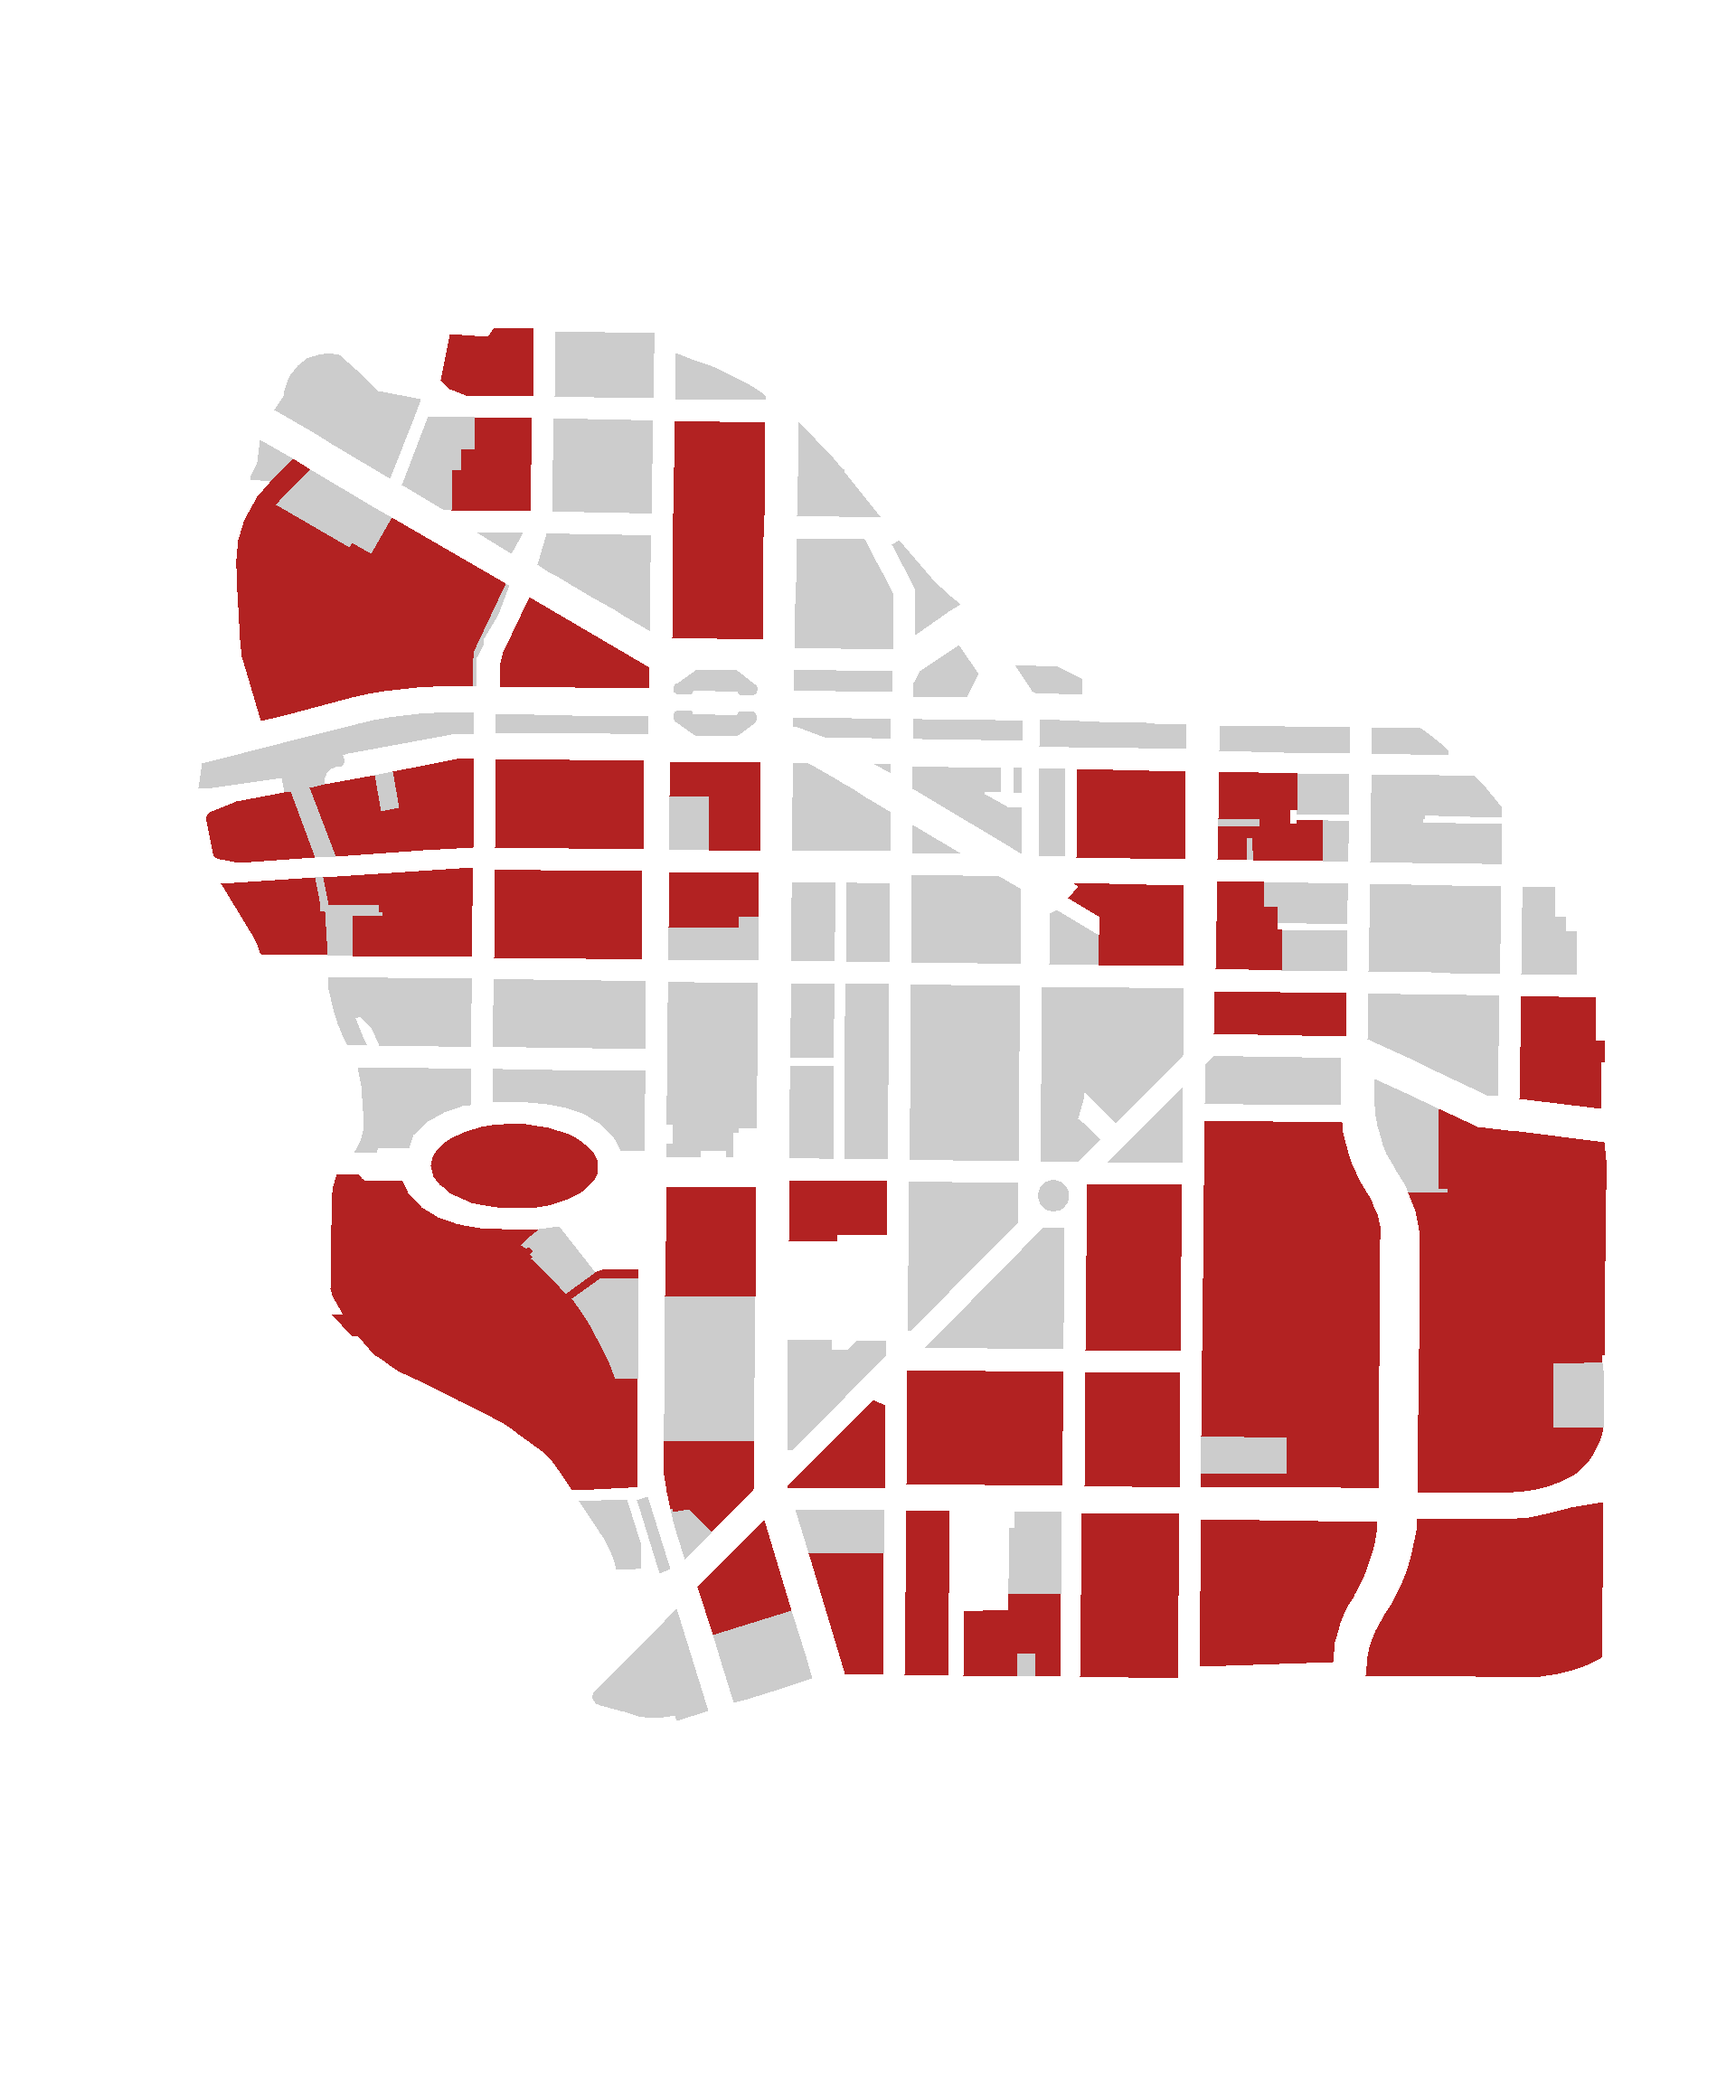
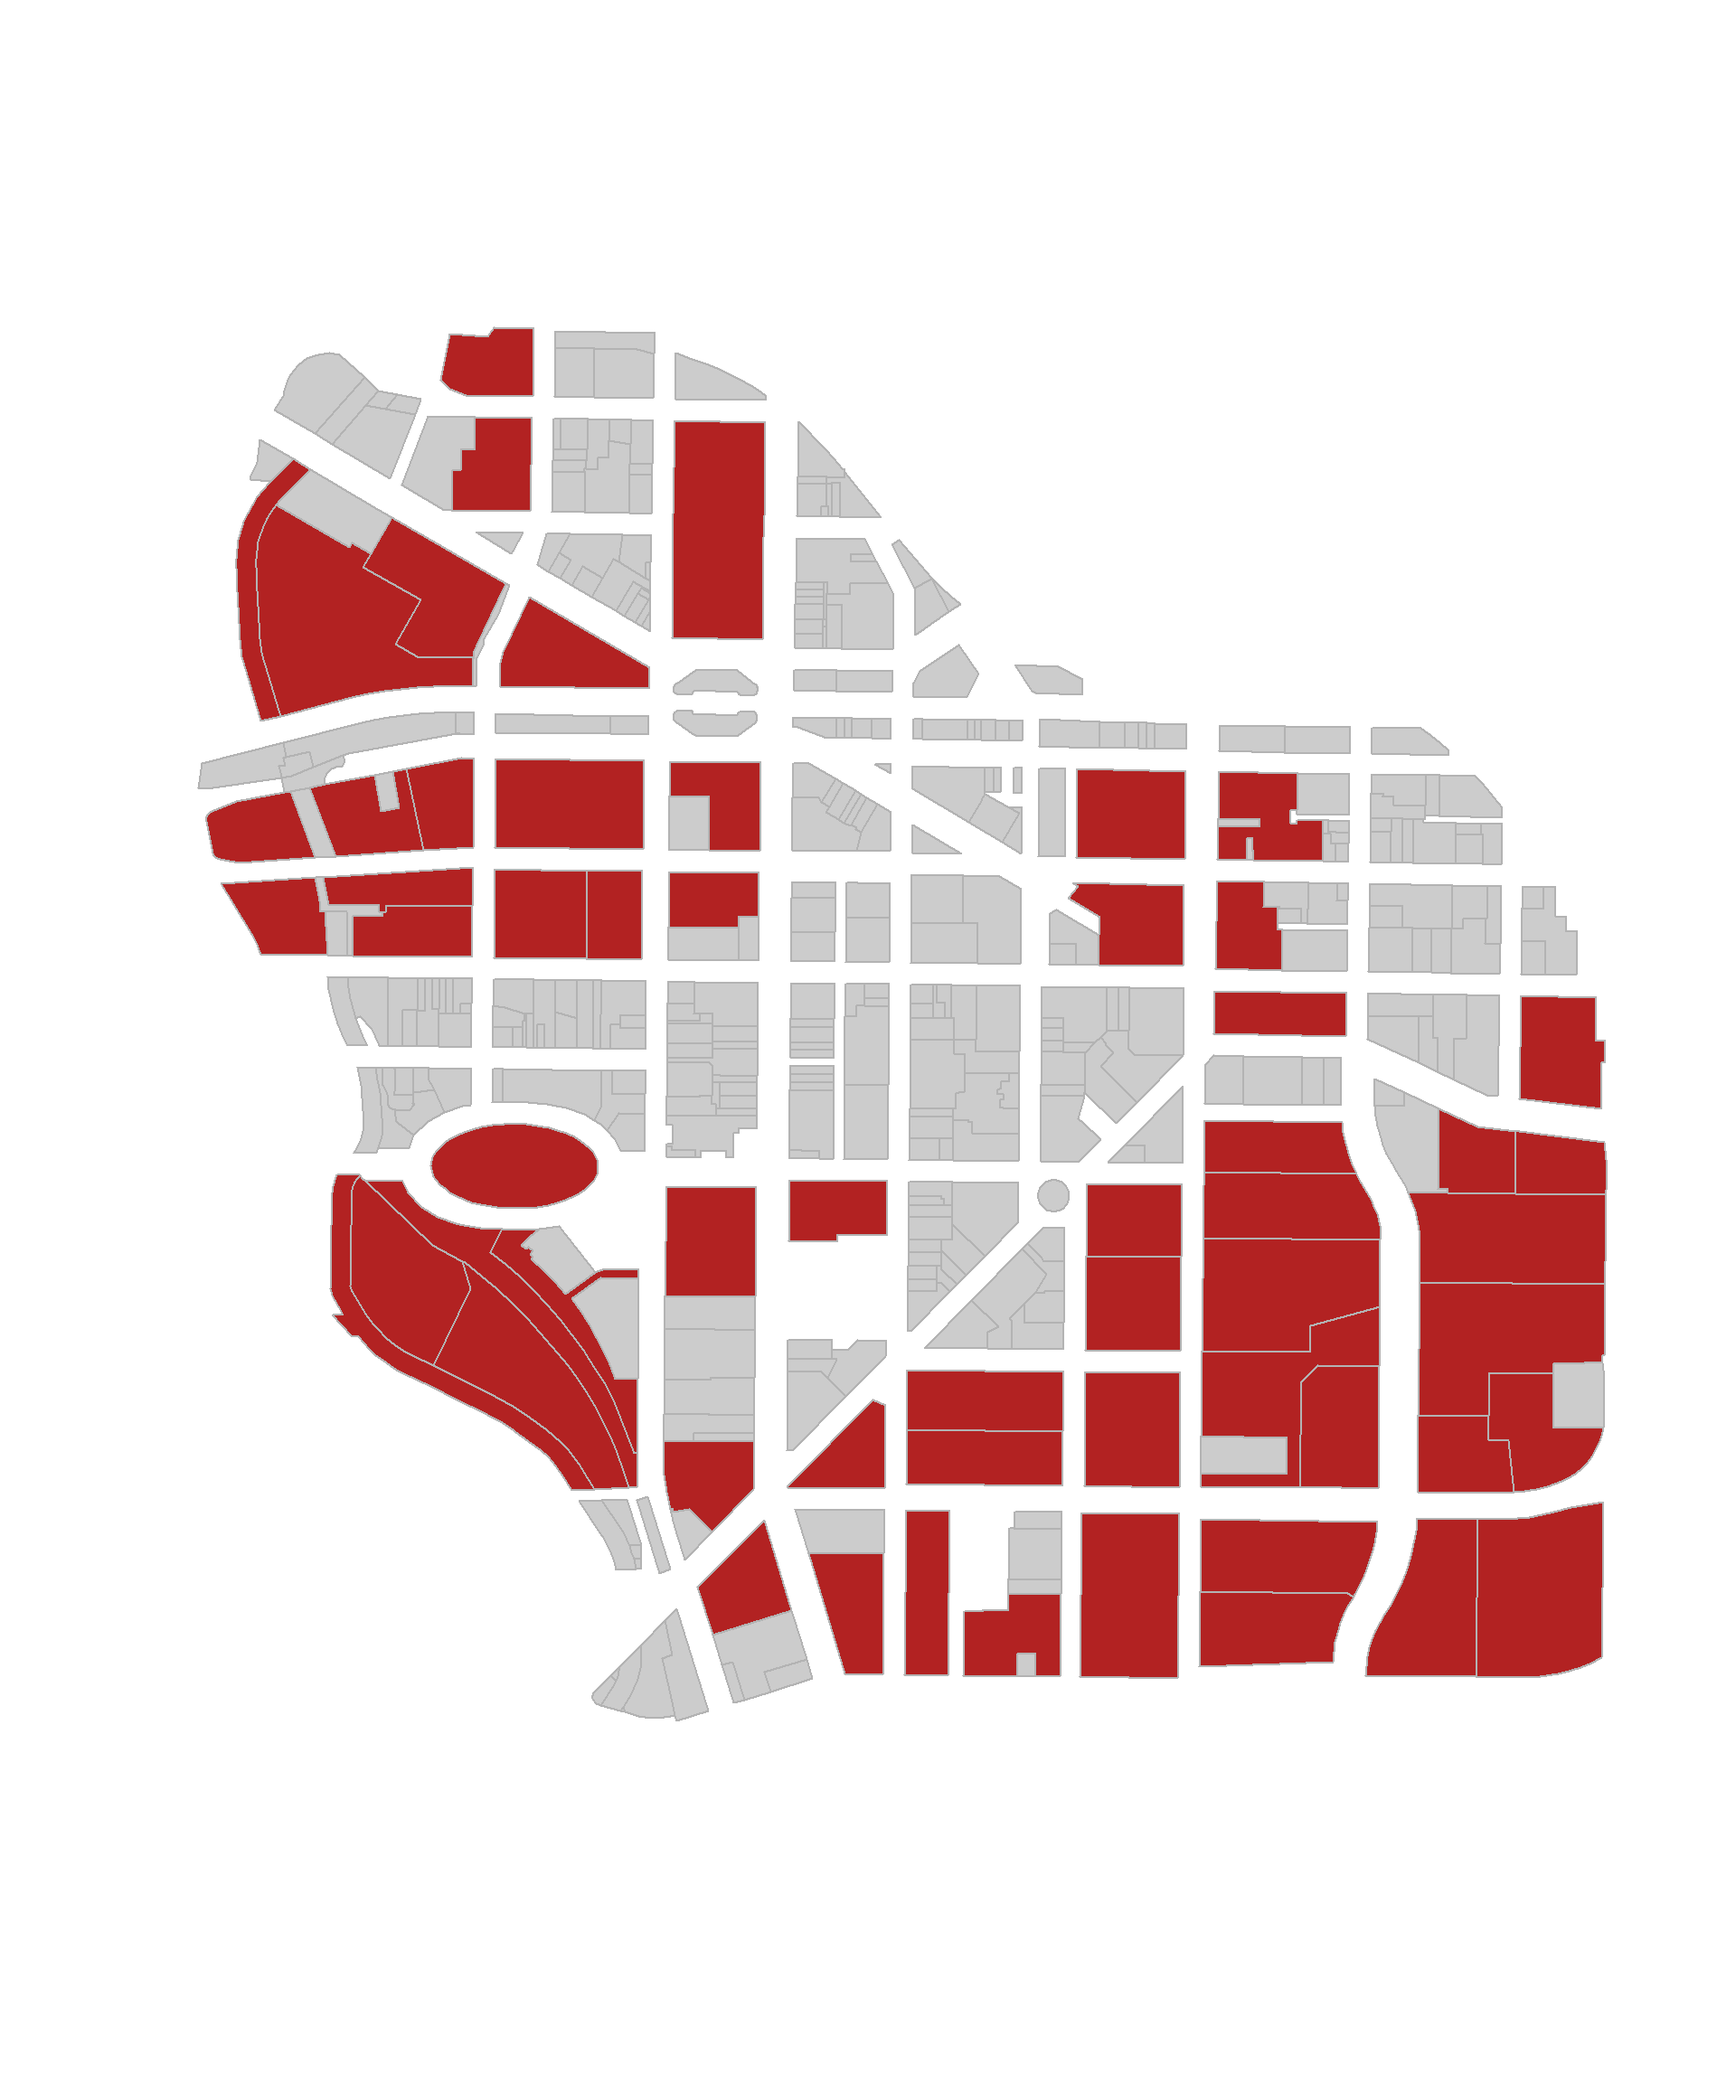
lab2

diff --git a/labs/lab-02-instructions-v2.html b/labs/lab-02-instructions-v2.html
@@ -844,7 +844,7 @@ summary {
 <p>Load the map file:</p>
 <div class="sourceCode" id="cb6"><pre class="sourceCode r"><code class="sourceCode r"><a class="sourceLine" id="cb6-1" title="1">URL &lt;-<span class="st"> &quot;https://raw.githubusercontent.com/DS4PS/Data-Science-Class/master/DATA/downtown-syr.geojson&quot;</span></a>
 <a class="sourceLine" id="cb6-2" title="2">downtown &lt;-<span class="st"> </span><span class="kw">geojson_read</span>( URL, <span class="dt">what=</span><span class="st">&quot;sp&quot;</span> )</a>
-<a class="sourceLine" id="cb6-3" title="3"><span class="kw">plot</span>( downtown,  <span class="dt">border=</span><span class="ot">NA</span>, <span class="dt">col=</span><span class="st">&quot;gray80&quot;</span> )</a></code></pre></div>
+<a class="sourceLine" id="cb6-3" title="3"><span class="kw">plot</span>( downtown,  <span class="dt">border=</span><span class="st">&quot;gray50&quot;</span>, <span class="dt">col=</span><span class="st">&quot;gray80&quot;</span> )</a></code></pre></div>
 <p><img src="lab-02-instructions-v2_files/figure-html/unnamed-chunk-10-1.png" width="960" /></p>
 <p>For this lab you will construct a group by translating the question into a logical statement, then show a map of the group by adapting the code provided:</p>
 <p><strong>How many parcels are larger than one acre?</strong></p>
@@ -856,7 +856,7 @@ summary {
 <p>To show the location of this group on a map:</p>
 <div class="sourceCode" id="cb11"><pre class="sourceCode r"><code class="sourceCode r"><a class="sourceLine" id="cb11-1" title="1">these &lt;-<span class="st"> </span>downtown<span class="op">$</span>acres <span class="op">&gt;</span><span class="st"> </span><span class="dv">1</span>                               <span class="co"># define your group</span></a>
 <a class="sourceLine" id="cb11-2" title="2">group.colors &lt;-<span class="st"> </span><span class="kw">ifelse</span>( these, <span class="st">&quot;firebrick&quot;</span>, <span class="st">&quot;gray80&quot;</span> )    <span class="co"># don&#39;t change this</span></a>
-<a class="sourceLine" id="cb11-3" title="3"><span class="kw">plot</span>( downtown,  <span class="dt">border=</span><span class="ot">NA</span>, <span class="dt">col=</span>group.colors )            <span class="co"># don&#39;t change this</span></a></code></pre></div>
+<a class="sourceLine" id="cb11-3" title="3"><span class="kw">plot</span>( downtown,  <span class="dt">border=</span><span class="st">&quot;gray70&quot;</span>, <span class="dt">col=</span>group.colors )      <span class="co"># don&#39;t change this</span></a></code></pre></div>
 <p><img src="lab-02-instructions-v2_files/figure-html/unnamed-chunk-12-1.png" width="960" /></p>
 <p><strong>What proportion of downtown parcels are occupied by commercial buildings?</strong></p>
 <div class="sourceCode" id="cb12"><pre class="sourceCode r"><code class="sourceCode r"><a class="sourceLine" id="cb12-1" title="1">these &lt;-<span class="st"> </span>downtown<span class="op">$</span>landuse <span class="op">==</span><span class="st"> &quot;Commercial&quot;</span></a>
@@ -931,14 +931,13 @@ summary {
 <div id="how-many-parcels-have-assessed-values-over-10-million-map-your-results." class="section level4">
 <h4>4. How many parcels have assessed values over $10 million? Map your results.</h4>
 <blockquote>
-<p>use the <strong>sum()</strong> function with <strong>assessedval</strong> variable;<br />
-create a group that includes parcels with apartments and two and three family homes</p>
+<p>use the <strong>sum()</strong> function with <strong>assessedval</strong> variable;</p>
 </blockquote>
 <p><img src="lab-02-instructions-v2_files/figure-html/unnamed-chunk-23-1.png" width="960" /></p>
 <p><br></p>
 </div>
-<div id="how-many-properties-are-delinquient-on-taxes-map-your-results." class="section level4">
-<h4>5. How many properties are delinquient on taxes? Map your results.</h4>
+<div id="how-many-properties-are-delinquent-on-taxes-map-your-results." class="section level4">
+<h4>5. How many properties are delinquent on taxes? Map your results.</h4>
 <blockquote>
 <p><strong>sum()</strong> with the <strong>amtdelinqt</strong>;</p>
 </blockquote>
@@ -952,18 +951,18 @@ create a group that includes parcels with apartments and two and three family ho
 </blockquote>
 <p><br></p>
 </div>
-<div id="what-proportion-of-commercial-properties-are-delinquit-on-taxes-what-proportion-of-delinquint-tax-bills-are-owed-by-commercial-parcels" class="section level4">
-<h4>7. What proportion of commercial properties are delinquit on taxes? What proportion of delinquint tax bills are owed by commercial parcels?</h4>
+<div id="what-proportion-of-commercial-properties-are-delinquent-on-taxes-what-proportion-of-delinquent-tax-bills-are-owed-by-commercial-parcels" class="section level4">
+<h4>7. What proportion of commercial properties are delinquent on taxes? What proportion of delinquent tax bills are owed by commercial parcels?</h4>
 <blockquote>
 <p><strong>mean()</strong> with <strong>amtdelinqt</strong> and <strong>landuse</strong> variables define your groups with compound statements first then calculate proportions</p>
 </blockquote>
 <p><img src="lab-02-instructions-v2_files/figure-html/unnamed-chunk-25-1.png" width="960" /></p>
 <p><br></p>
 </div>
-<div id="how-many-of-each-land-use-type-are-delinquint-on-taxes" class="section level4">
-<h4>8. How many of each land use type are delinquint on taxes?</h4>
+<div id="how-many-of-each-land-use-type-are-delinquent-on-taxes" class="section level4">
+<h4>8. How many of each land use type are delinquent on taxes?</h4>
 <blockquote>
-<p><strong>table()</strong> with <strong>amtdelinqt</strong> and <strong>landuse</strong> variables define delinquincy first, then create a table with landuse and delinquincy</p>
+<p><strong>table()</strong> with <strong>amtdelinqt</strong> and <strong>landuse</strong> variables define delinquency first, then create a table with landuse and delinquency</p>
 </blockquote>
 <p><br> <br></p>
 <hr />
